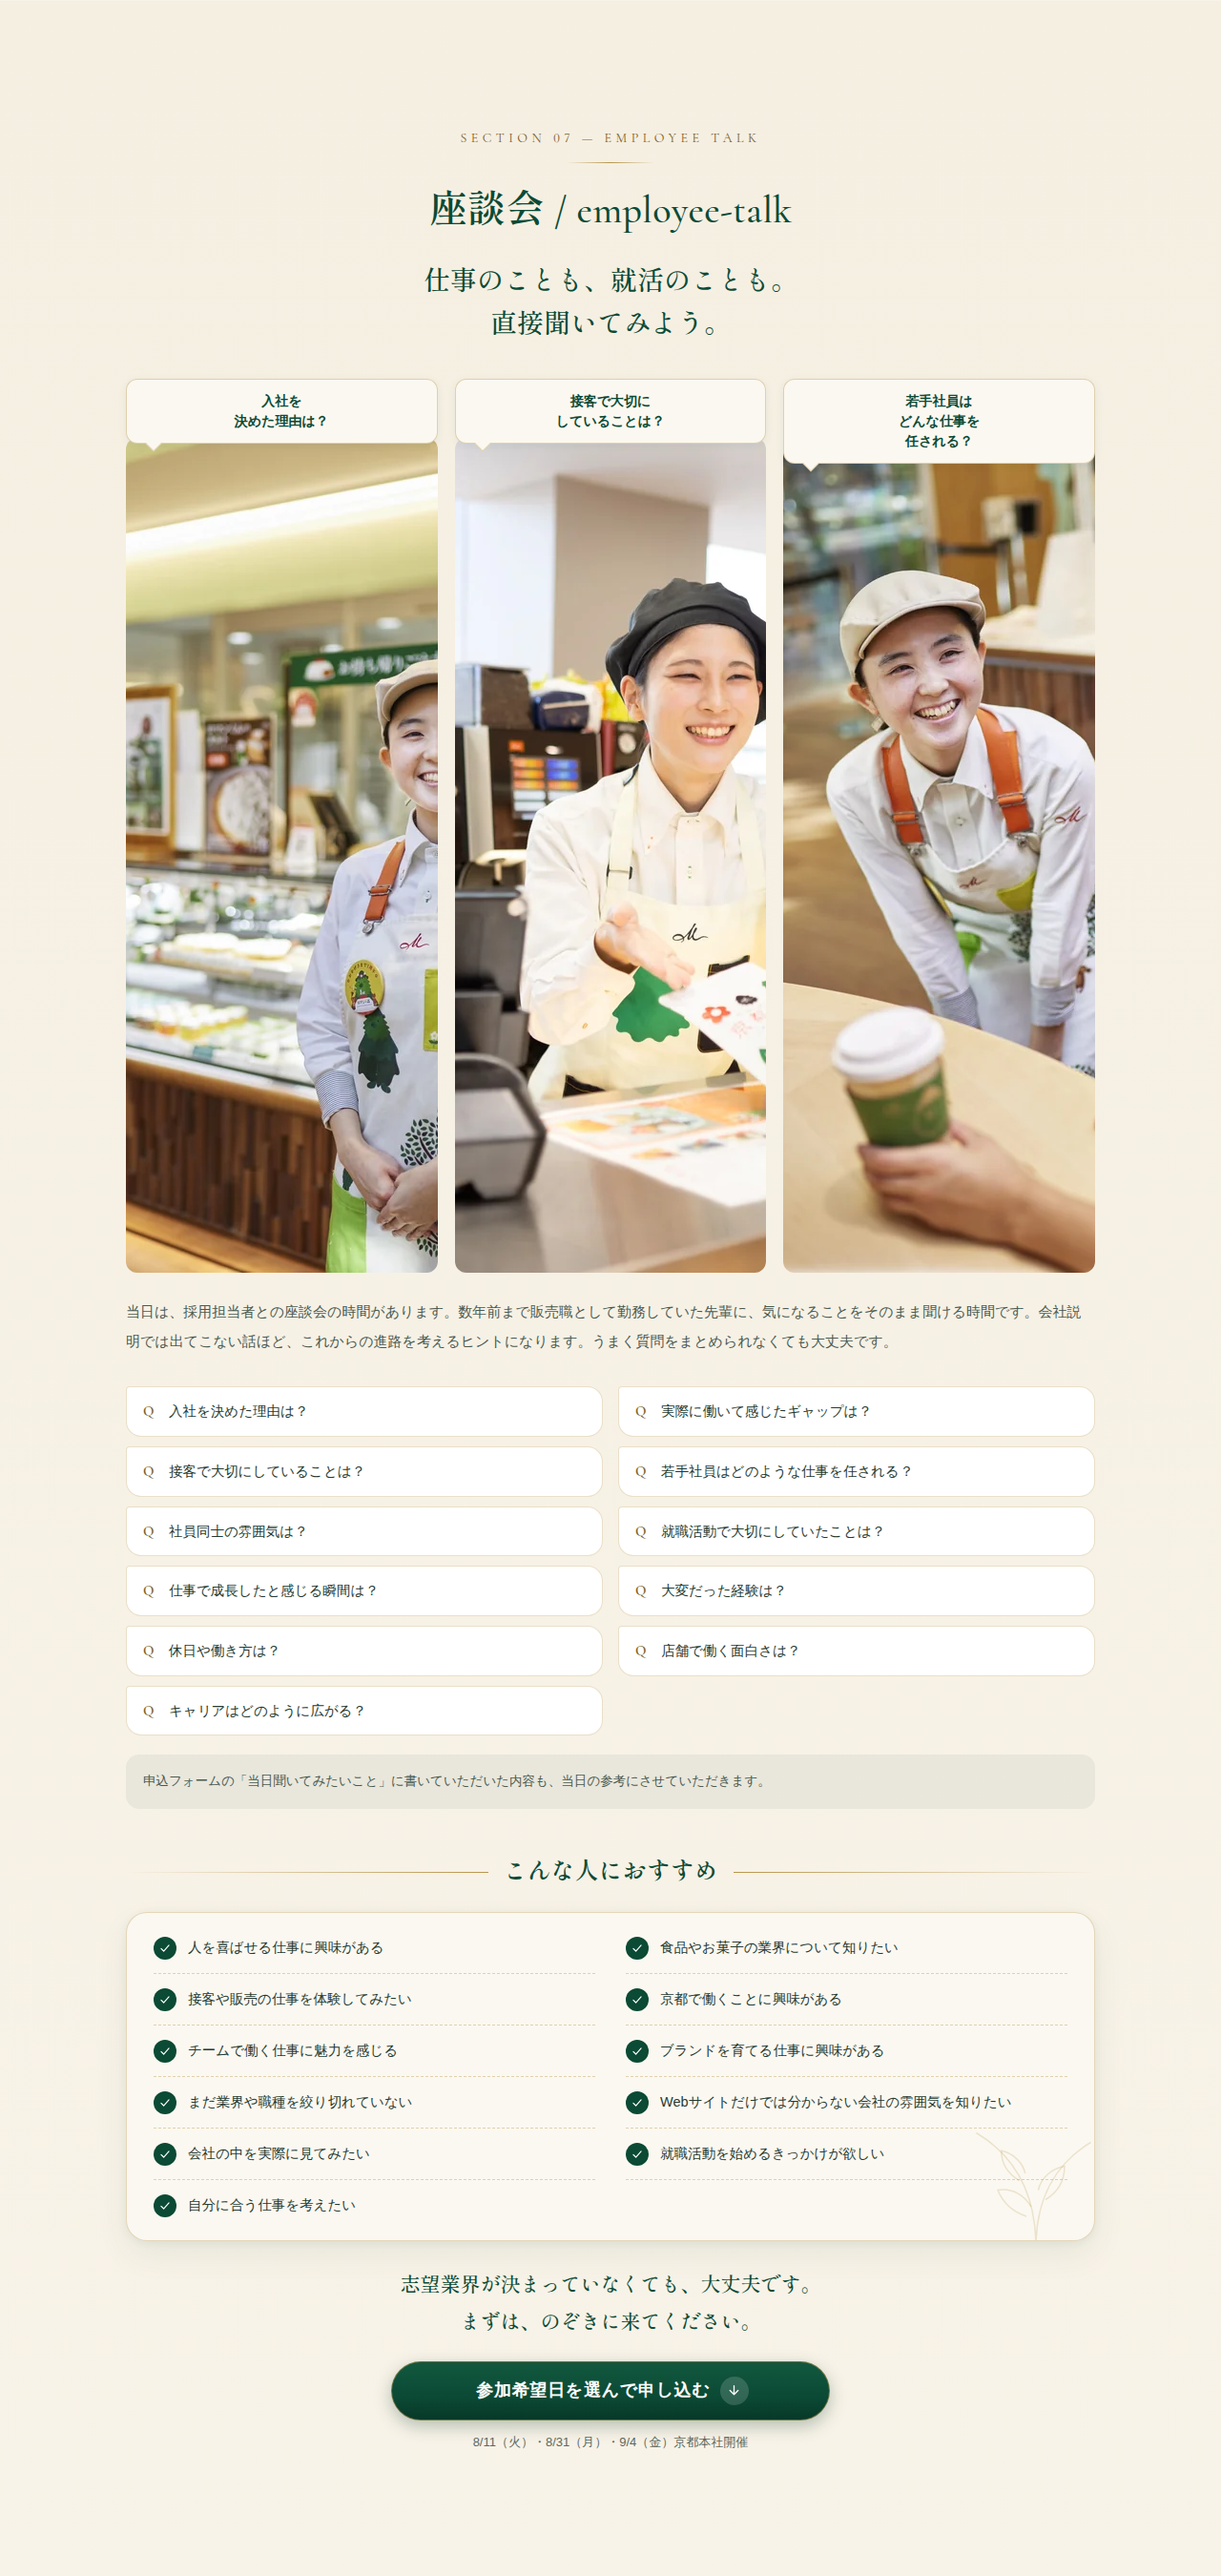
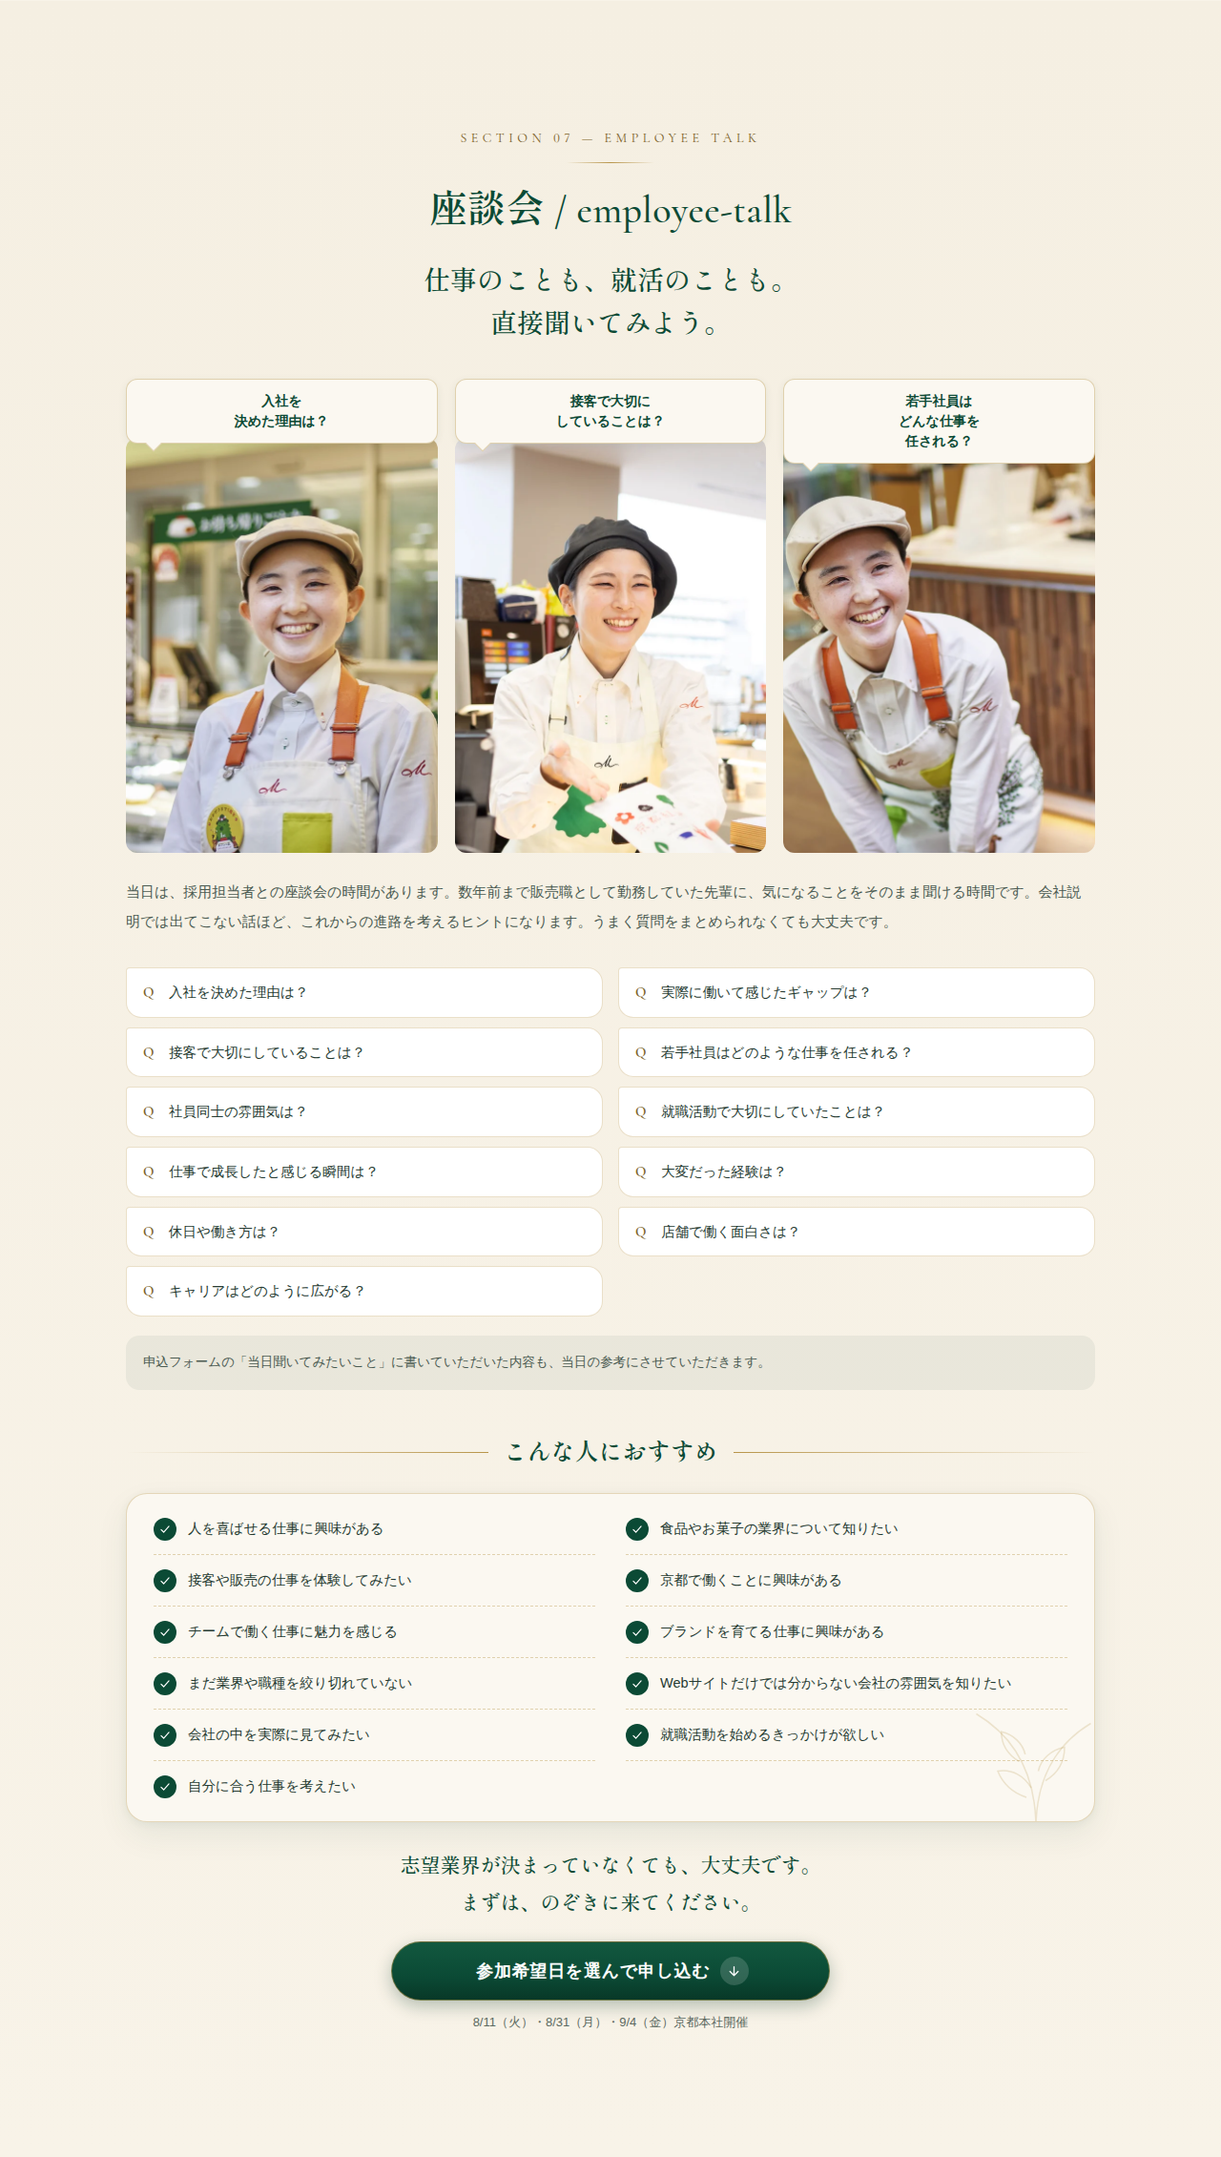
fix(static-lp): 座談会の写真で顔が吹き出しに隠れないよう切り出しを調整
- voice-01/02/03 を、顔が中央（横50%／縦38%）に来るよう切り出し直し
- img の width/height 属性がブラウザ側で高さの既定値として効き、
  .voice img の aspect-ratio: 3/4 が無視されて縦長に伸びていたため、
  リセットに img { height: auto } を追加して全体で打ち消す

確認: 375〜1920pxで横スクロールなし／コンソールエラーなし／壊れ画像なし、
axe-core（WCAG 2.0/2.1 A・AA）違反0件、入力→確認→完了のフォーム動作を確認

Claude-Session: https://claude.ai/code/session_015d8YPaoft4QzEwSfga62S2

diff --git a/static-lp/styles.css b/static-lp/styles.css
@@ -104,7 +104,10 @@ body {
 
 h1, h2, h3, h4, p, figure, dl, dd, blockquote { margin: 0; }
 ul, ol { margin: 0; padding: 0; list-style: none; }
+/* width/height 属性がブラウザ側で高さの既定値として効くのを打ち消す。
+   高さを持たせたい箇所（.photo img など）は個別に指定する。 */
 img, svg { display: block; max-width: 100%; }
+img { height: auto; }
 button { font: inherit; color: inherit; border: 0; background: none; cursor: pointer; }
 input, select, textarea { font: inherit; color: inherit; }
 a { color: inherit; }
